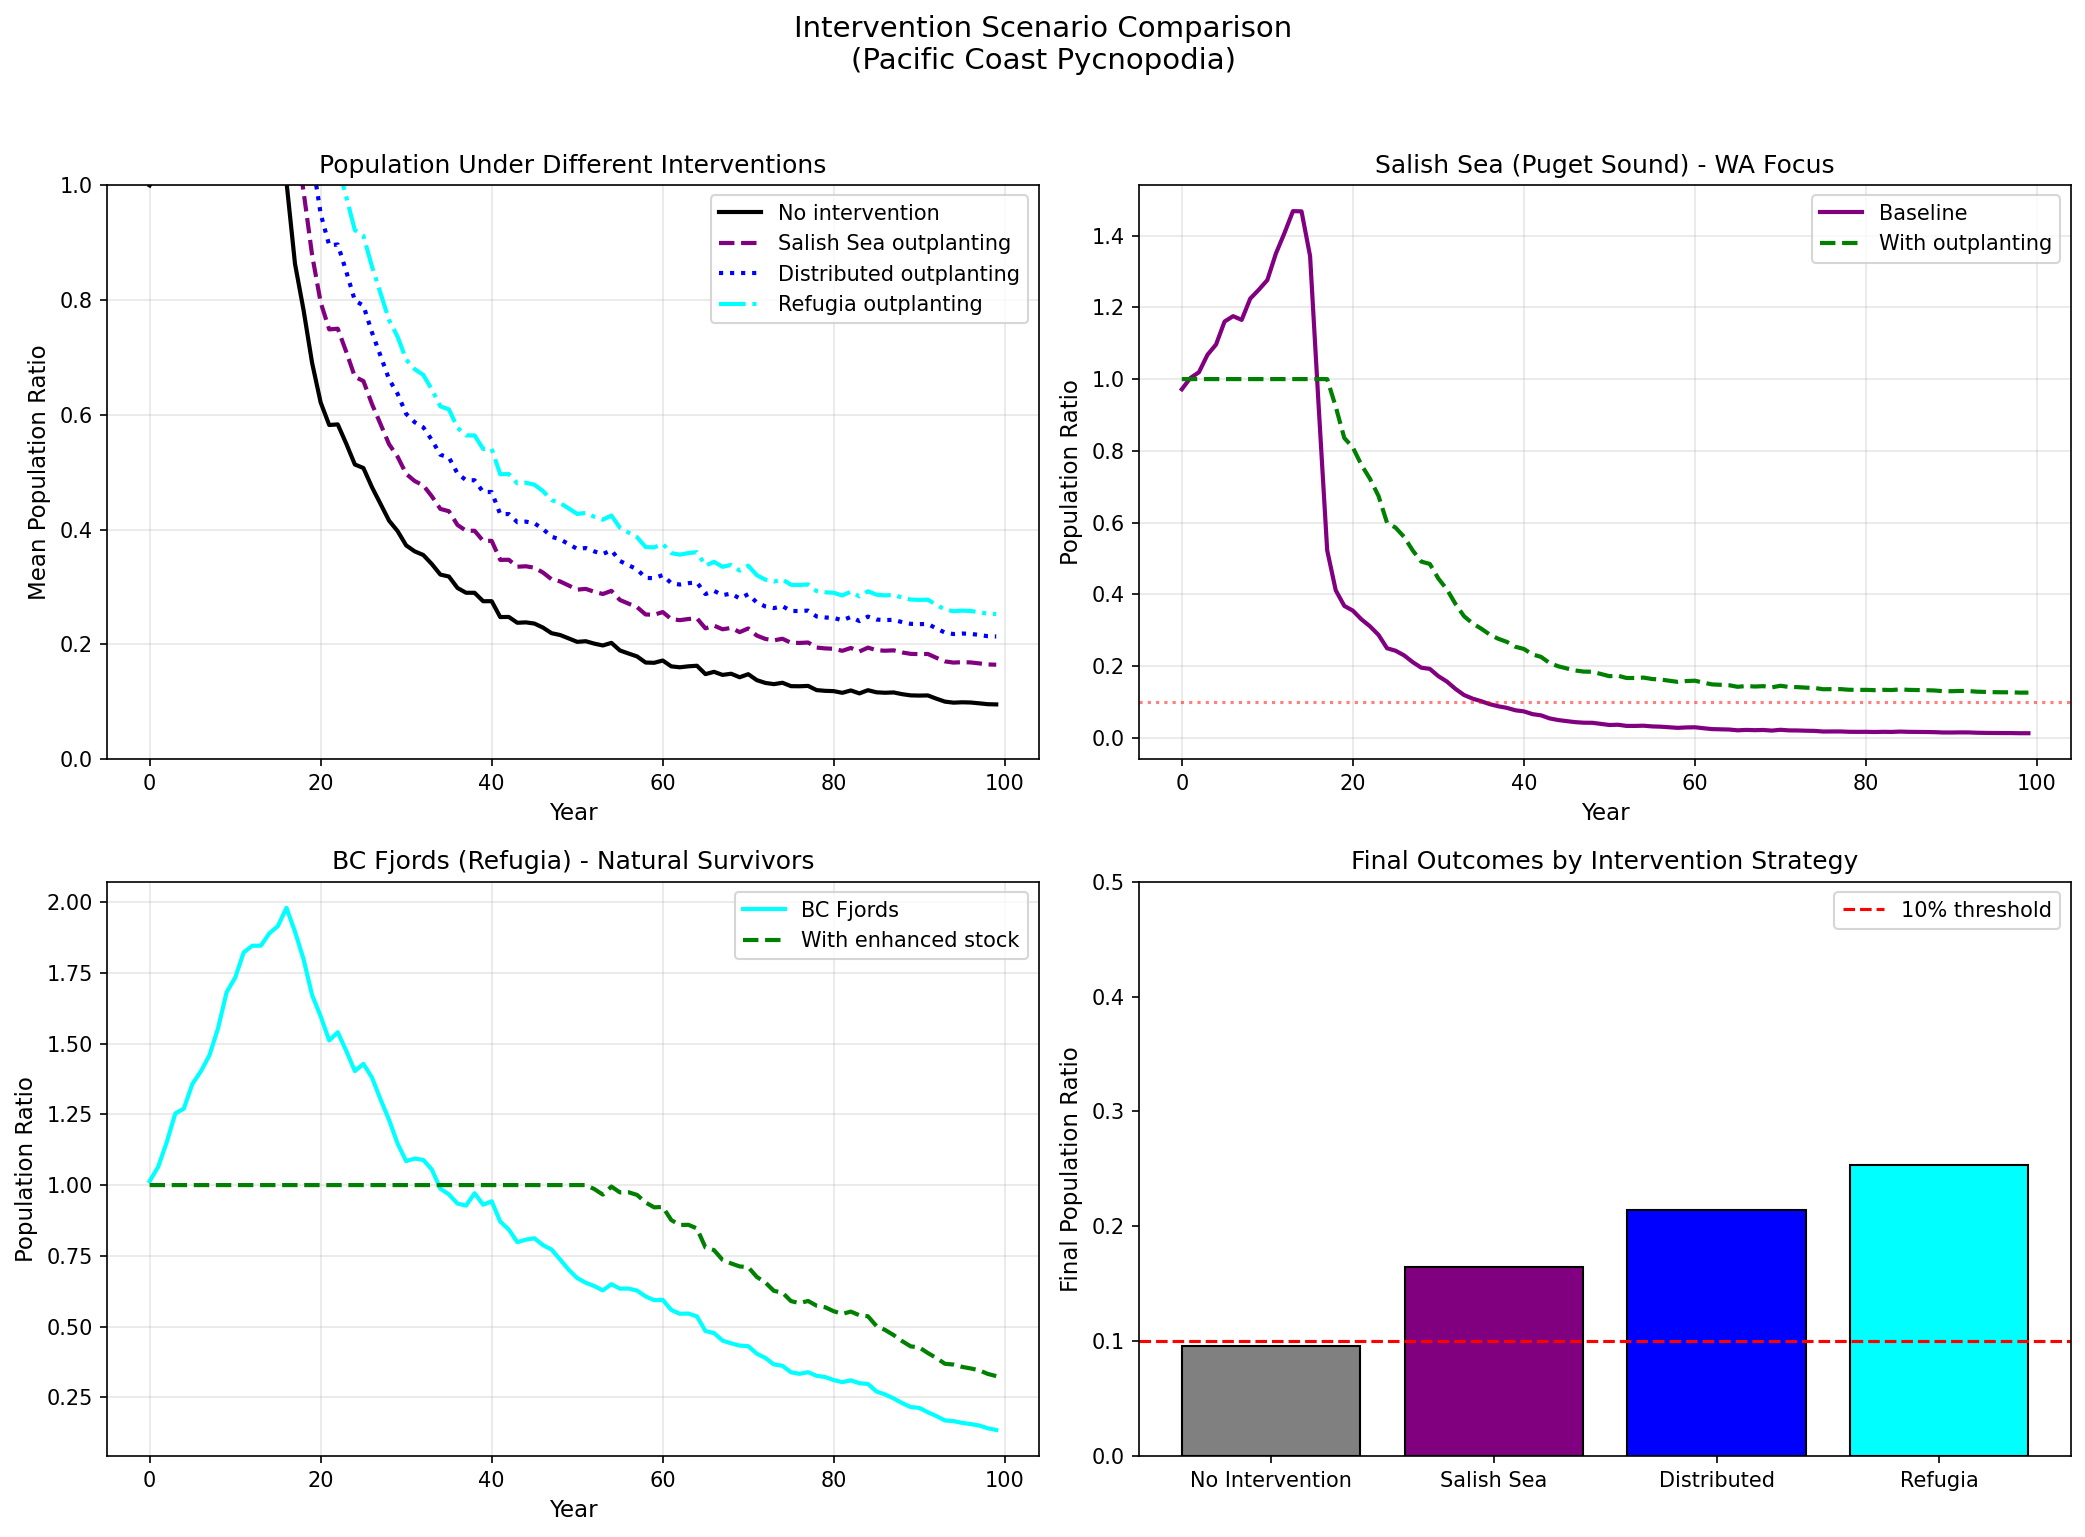
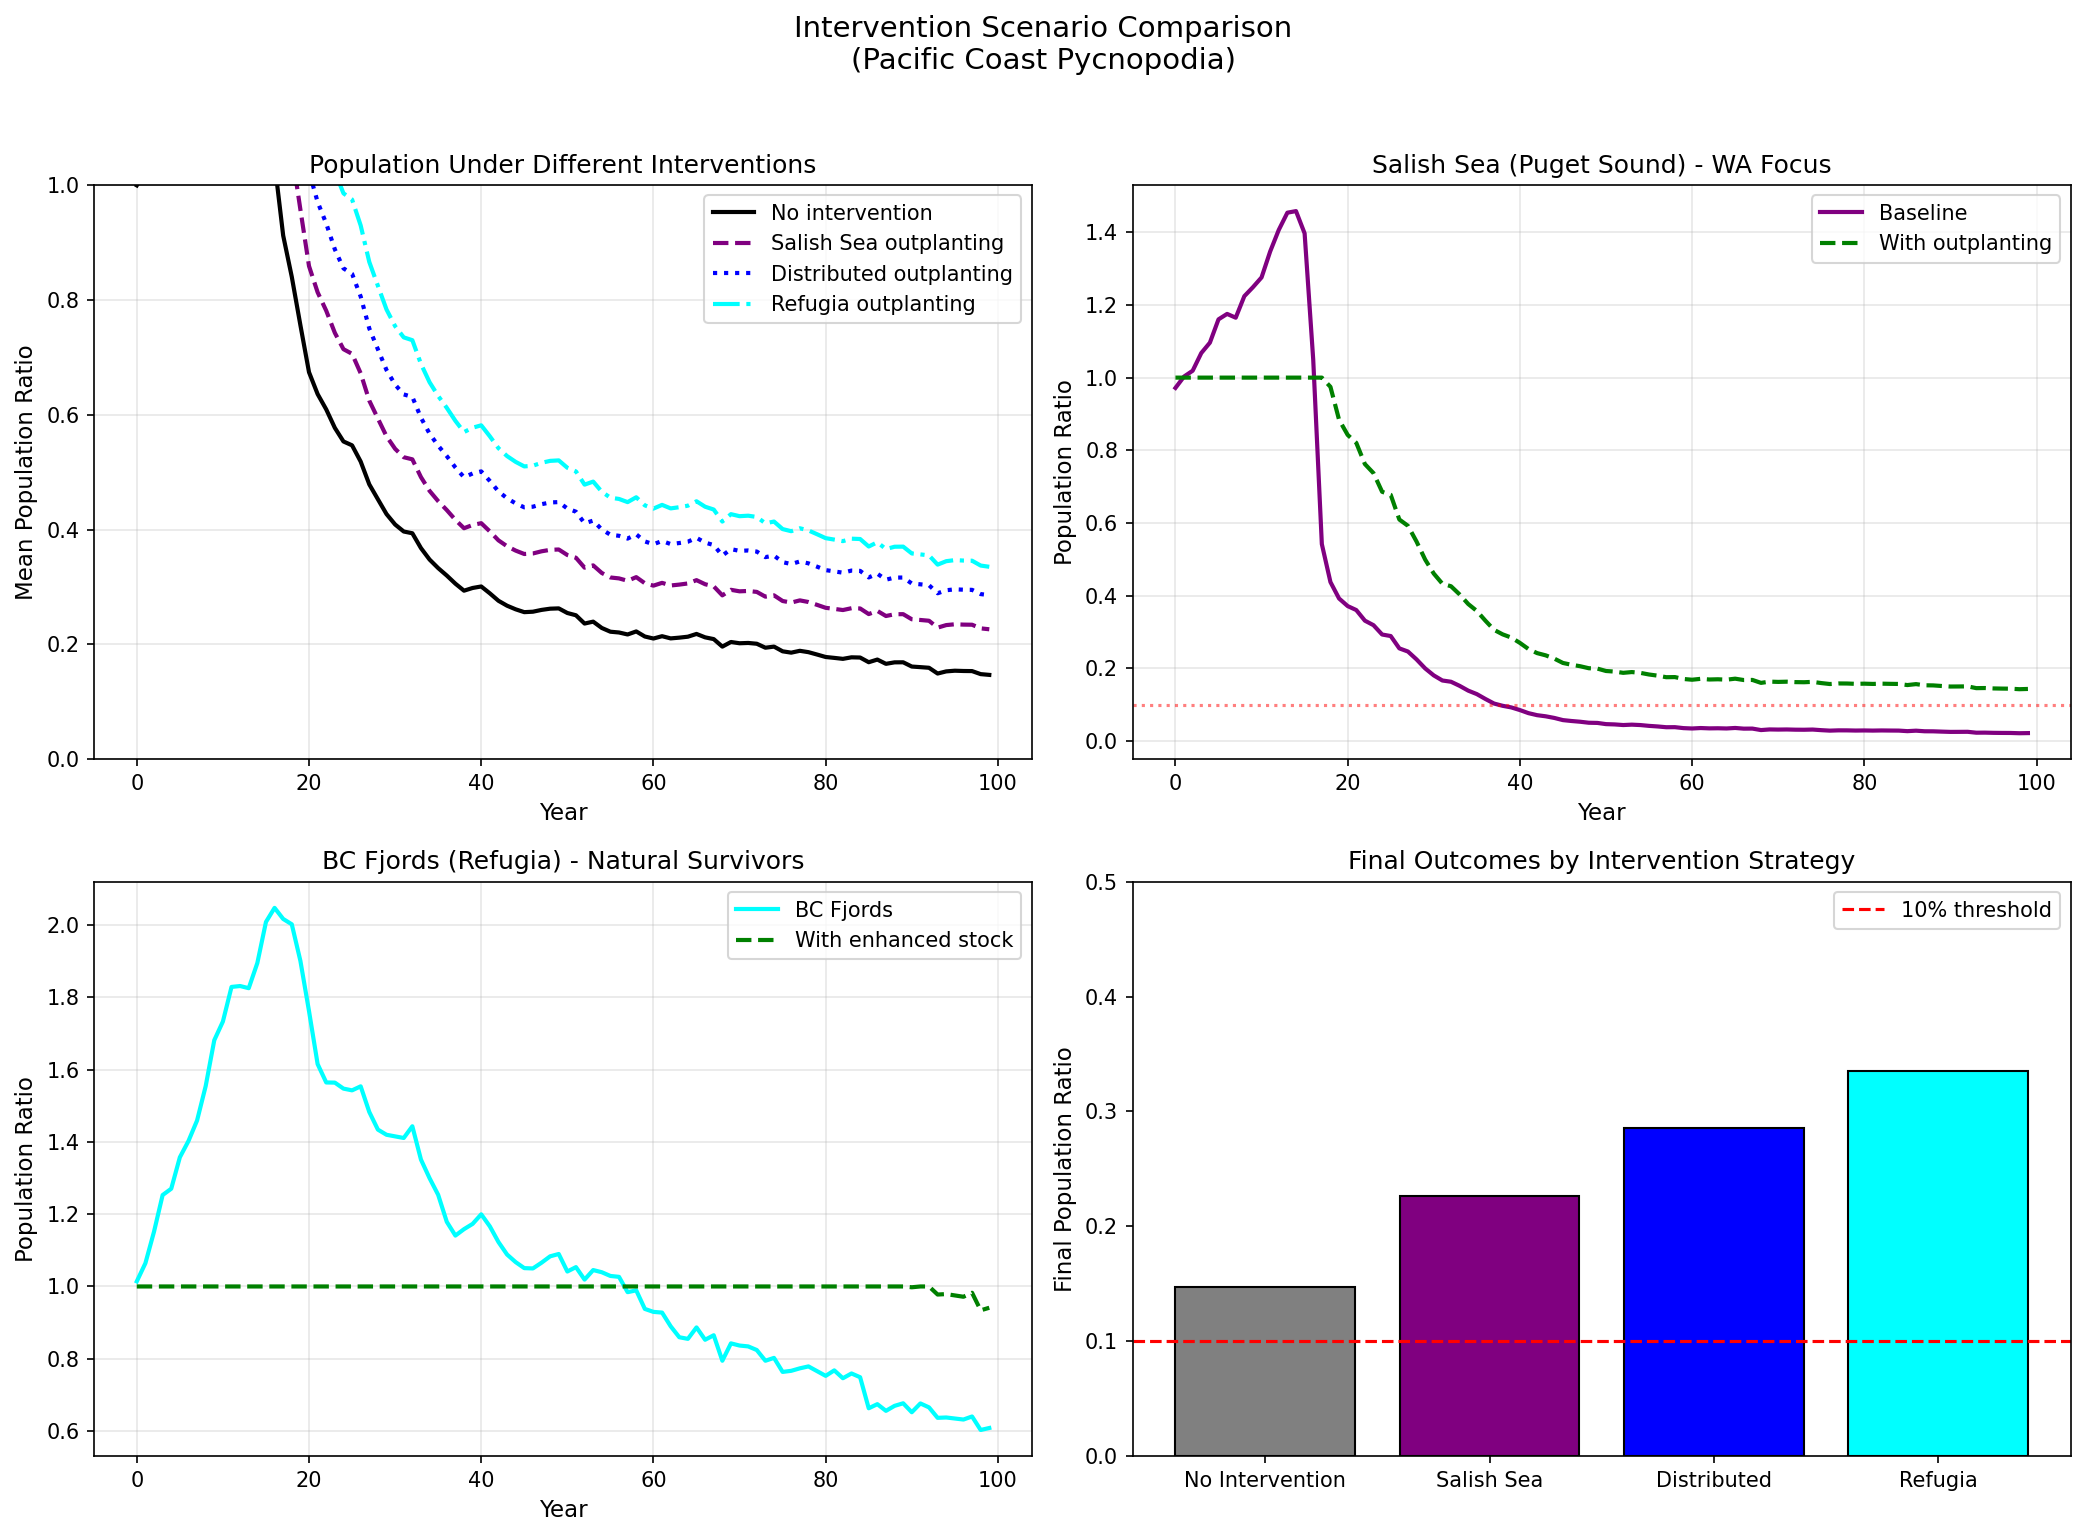
Calibration success: all SSWD targets met
9 regions (split SE Alaska north/south)
Refugia: fjords 70%, SE AK N 25%, SE AK S 15%, inland 6%, outer 3%
Cold water modifier floor: 0.5x (protective)
Results: 91.6% overall decline, BC Fjords 60.9%, SE AK N 63.4%
15 figures generated

diff --git a/pycnopodia/pacific_coast.py b/pycnopodia/pacific_coast.py
@@ -296,11 +296,13 @@ def build_sites(config: PacificCoastConfig, rng: np.random.Generator = None) -> 
             # Refugia probability depends on region type
             # Fjords: many deep-water refugia; Alaska: some; outer coast: rare
             if region.region_type == RegionType.FJORD:
-                refugia_prob = 0.60  # Many deep-water refugia in fjords
-            elif region.short_name == "SE AK":
-                refugia_prob = 0.20  # Deep-water refugia in Alaska
+                refugia_prob = 0.70  # Many deep-water refugia in fjords
+            elif region.short_name == "SE AK N":
+                refugia_prob = 0.25  # Northern fjord refugia
+            elif region.short_name == "SE AK S":
+                refugia_prob = 0.15  # Some deep-water refugia
             elif region.region_type == RegionType.INLAND_SEA:
-                refugia_prob = 0.05  # Rare in inland seas
+                refugia_prob = 0.06  # Rare in inland seas
             else:
                 refugia_prob = 0.03  # Very rare on outer coast
             is_refugia = rng.random() < refugia_prob
@@ -359,7 +361,7 @@ def get_temperature_disease_modifier(temperature: float, config: PacificCoastCon
     # Warm water INCREASES lethality
     temp_diff = temperature - config.disease_temp_threshold
     modifier = 1.0 + config.disease_temp_coefficient * temp_diff
-    return max(0.7, min(modifier, 2.0))  # Range: 0.7x to 2.0x
+    return max(0.5, min(modifier, 2.0))  # Range: 0.5x to 2.0x (cold water protective)
 
 
 def get_temperature_spread_modifier(temperature: float, config: PacificCoastConfig) -> float:
